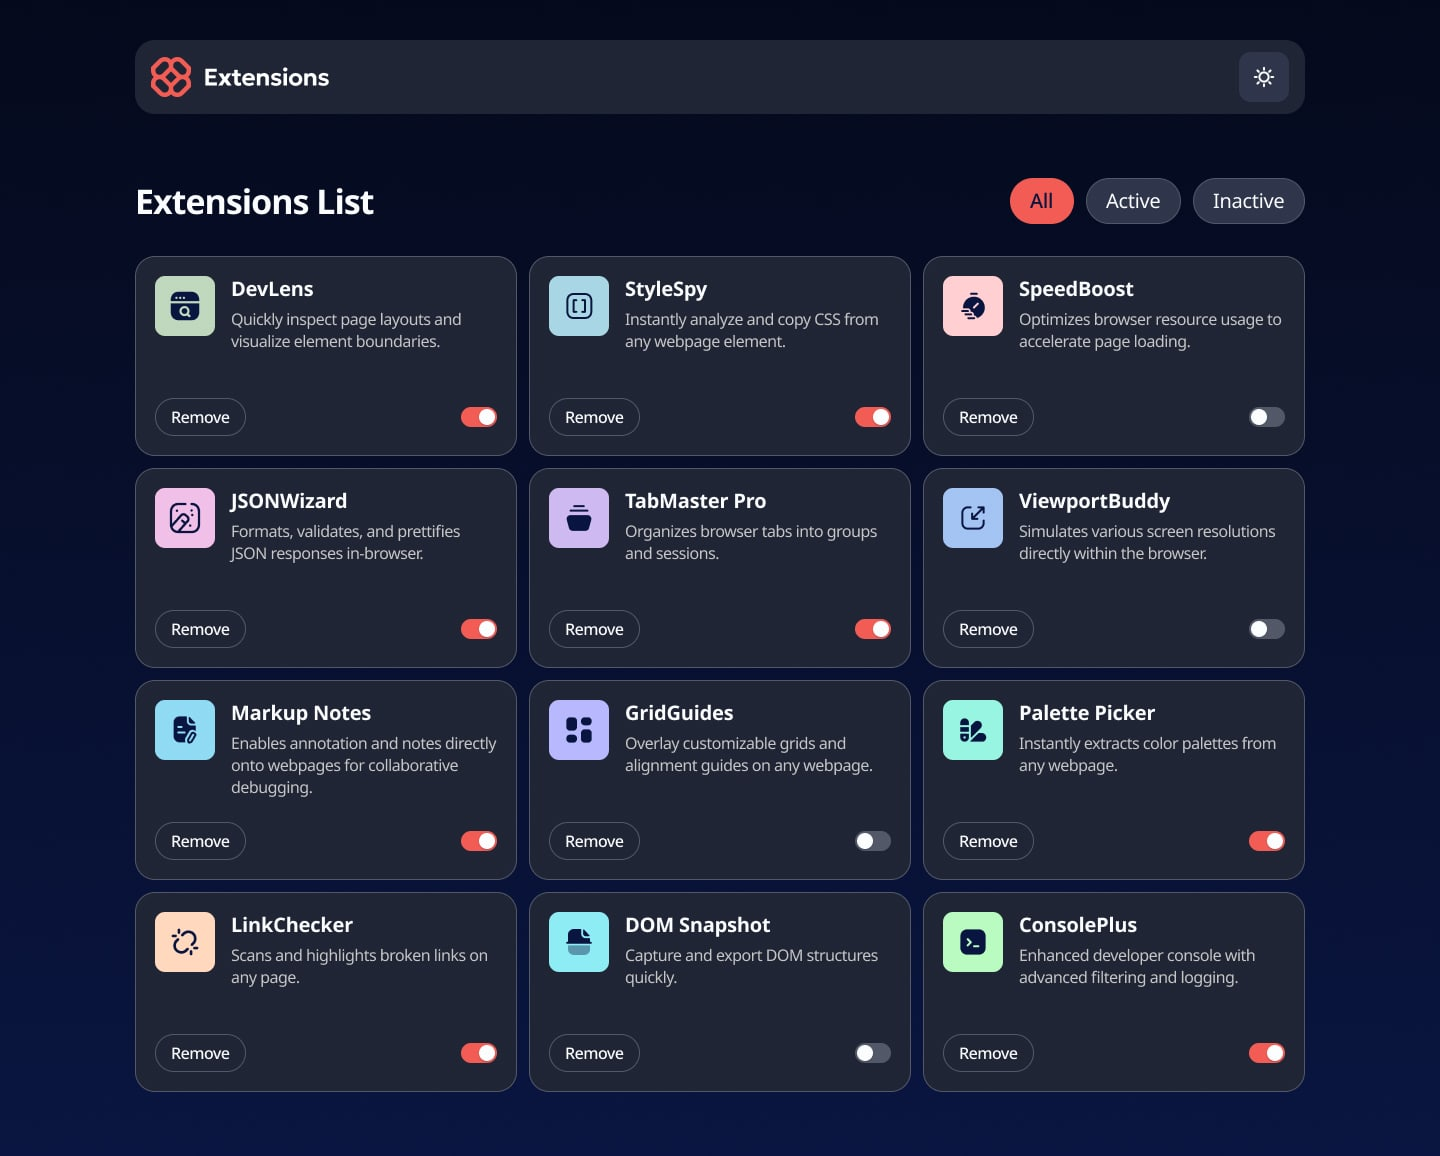
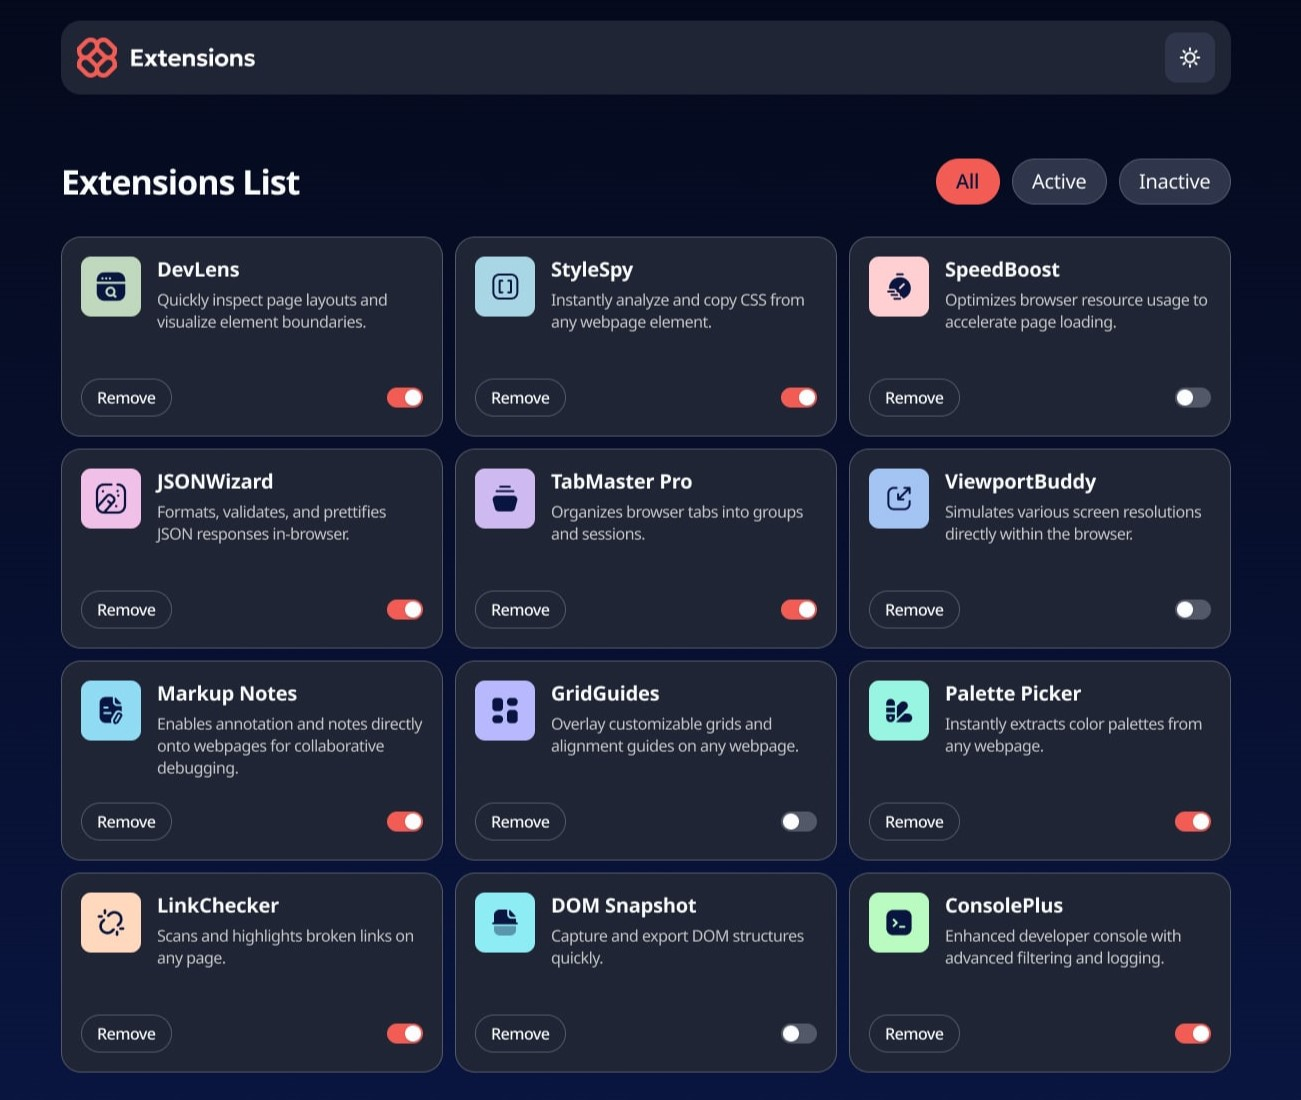
Add new project

Changed region(s): [[0.0307, 0.0, 0.9531, 0.9582], [0.0307, 0.1545, 0.2767, 0.1855], [0.8916, 0.9273, 0.9531, 0.9582]]

diff --git a/app/data/data.js b/app/data/data.js
@@ -2,7 +2,7 @@ import { FiGithub, FiLinkedin, FiDribbble, FiMail } from "react-icons/fi";
 import {} from "react-icons/fi";
 import { RiTwitterXLine } from "react-icons/ri";
 import project1 from "../assets/project-1.png";
-import project2 from "../assets/project-2.png";
+import project2 from "../assets/project-2.jpg";
 import tailwind from "../assets/portfolio-tools/tailwind.png";
 import js from "../assets/portfolio-tools/javascript.png";
 import react from "../assets/portfolio-tools/react.png";
@@ -70,8 +70,9 @@ export const projects = [
     image: project1,
     title: "Kyverno website and documentation",
     description:
-      "A redesign of the kyverno website and documentation using Astro.js.",
+      "A redesign of the kyverno website and documentation using Astro.js. featuring dark mode, blog, filters, responsive table, etc.",
     tools: ["Astro.js", " JavaScript", "Tailwind"],
+    link: "https://kyverno.io/",
   },
   {
     image: project2,
@@ -79,6 +80,7 @@ export const projects = [
     description:
       "A responsive browser extensions manager app built with React, Javascript and Tailwind. Featuring filters, toggle-switch, darkmode and modal dialog.",
     tools: ["React", " JavaScript", "Tailwind"],
+    link: "https://browser-extentions-managerr.vercel.app/",
   },
 ];
 

diff --git a/app/components/ProjectCard.jsx b/app/components/ProjectCard.jsx
@@ -1,11 +1,10 @@
 import Image from "next/image";
-import Link from "next/link";
 import React from "react";
 
-const ProjectCard = ({ image, title, description, tools, style }) => {
+const ProjectCard = ({ image, title, description, tools, style, link }) => {
   return (
     <a
-      href="https://kyverno.io/"
+      href={link}
       target="_blank"
       rel="noopener noreferrer"
       className={`min--[300px] bg-cneutral-200 p-10 rounded-2xl ${style} hover:shadow-md hover:scale-105 transition-all duration-300 ease-in-out`}
@@ -15,7 +14,6 @@ const ProjectCard = ({ image, title, description, tools, style }) => {
         alt={`project ${title}`}
         width={`auto`}
         height={`auto`}
-        className="flex-1"
       />
       <div className="py-4">
         <h3 className="text-heading4 font-kanit font-bold">{title}</h3>

diff --git a/app/Sections/WorkSection.jsx b/app/Sections/WorkSection.jsx
@@ -34,7 +34,7 @@ const WorkSection = () => {
           </h2>
           <WorksFilter />
         </header>
-        <div className="w-full grid grid-cols-1 lg:grid-cols-4 gap-8 pt-8">
+        <div className="w-full flex flex-col justify-center md:flex-row md:items-stretch gap-8 pt-8">
           {projects.map((project, index) => (
             <ProjectCard
               image={project.image}
@@ -43,6 +43,7 @@ const WorkSection = () => {
               tools={project.tools}
               key={index}
               style={getItemStyle(index)}
+              link={project.link}
             />
           ))}
         </div>
